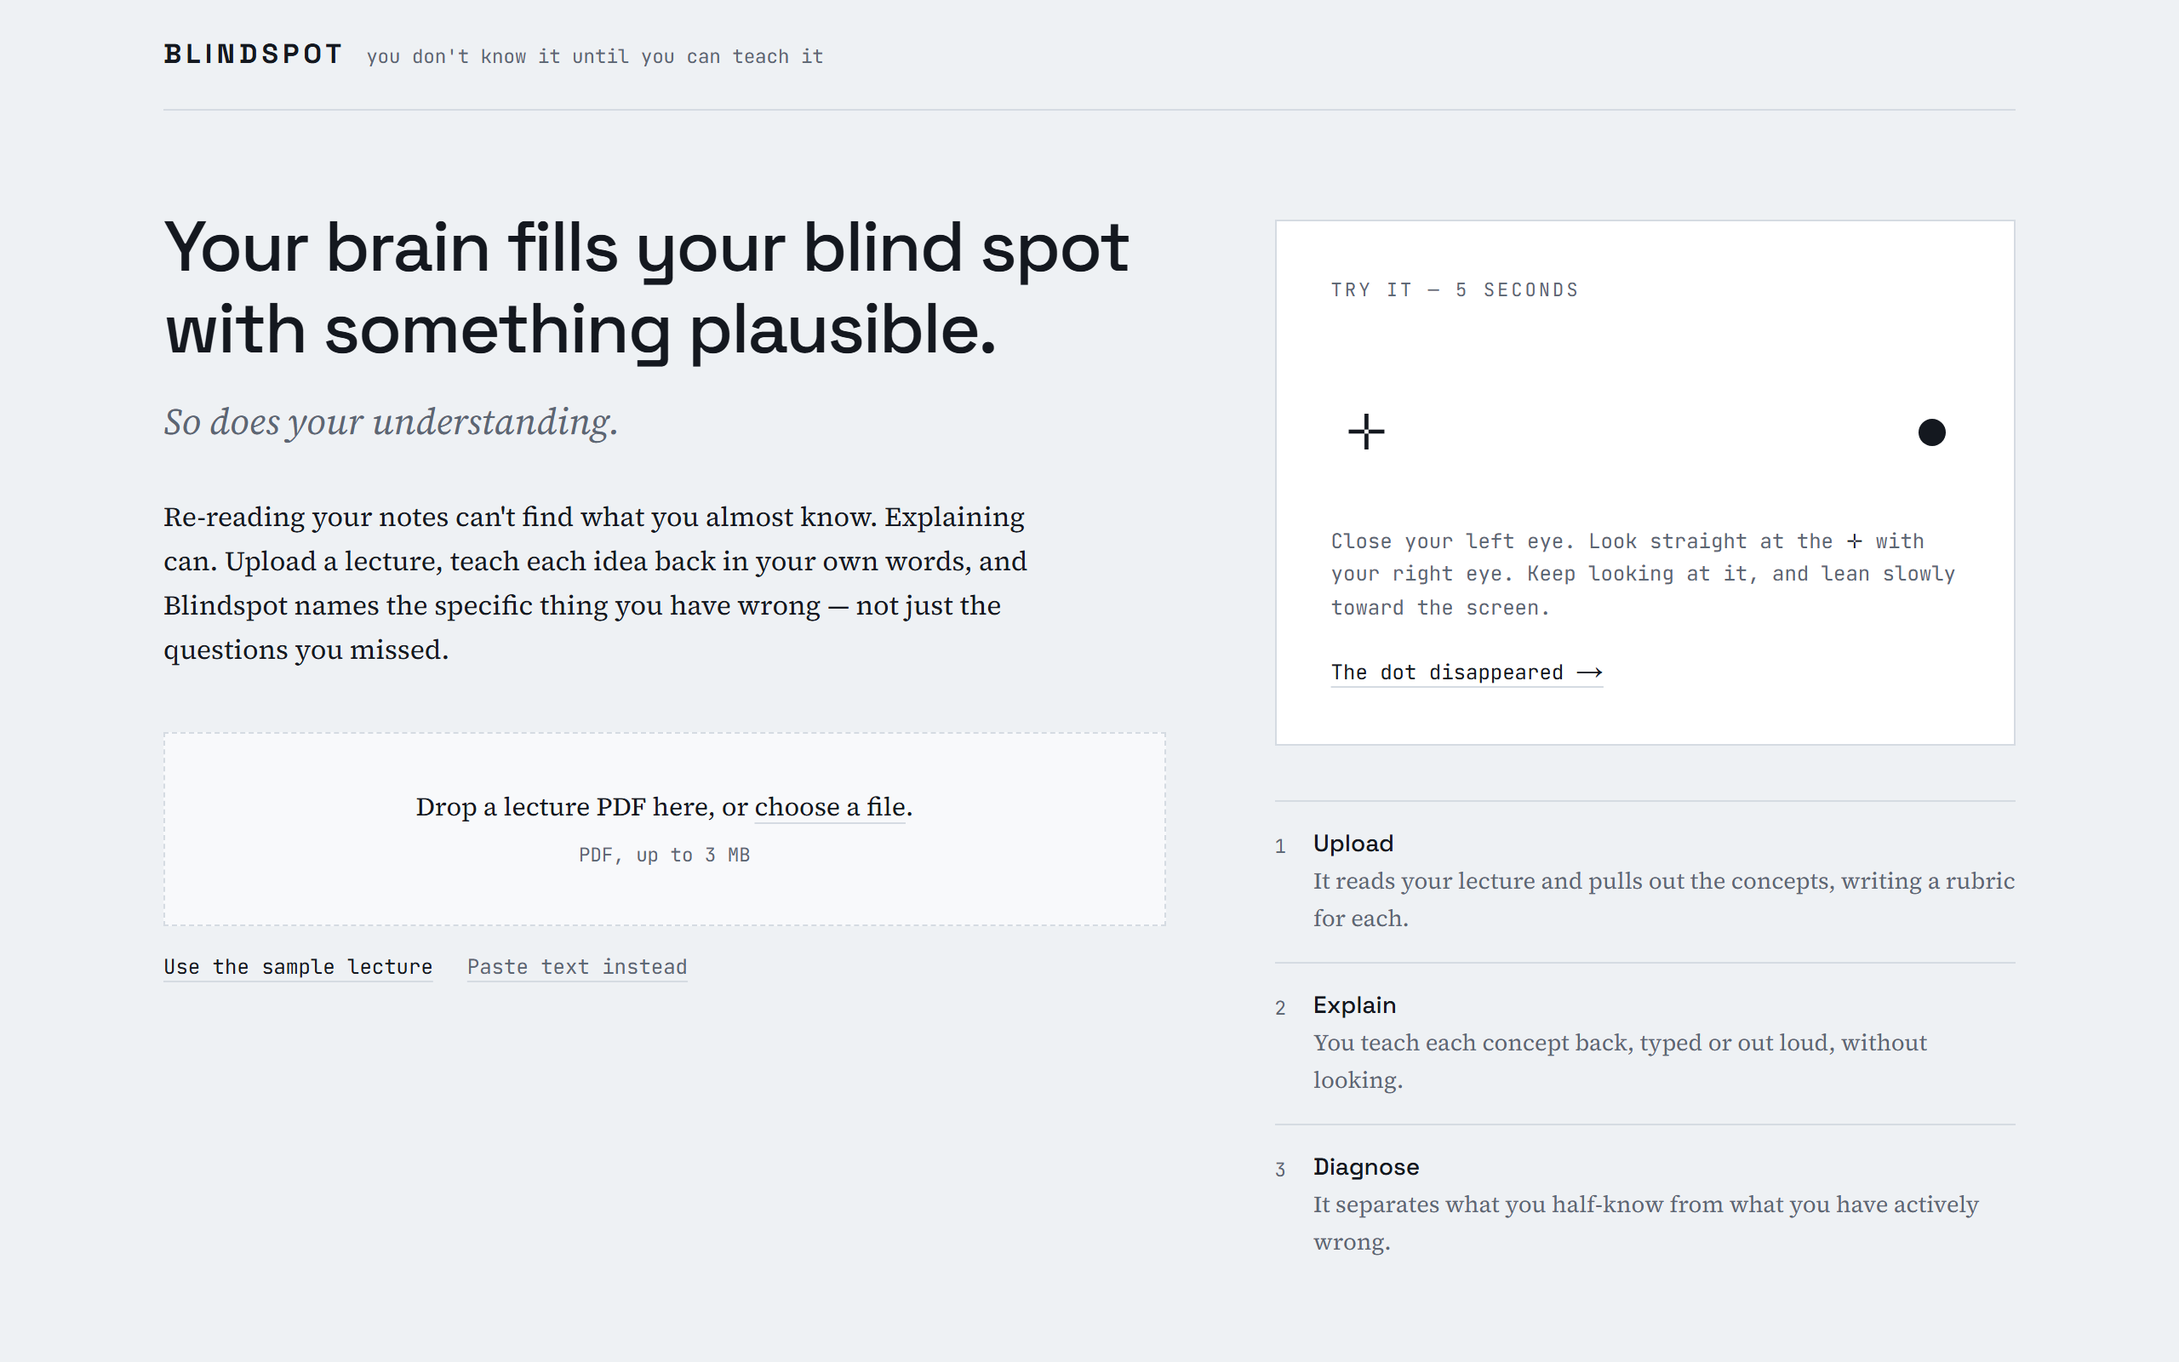
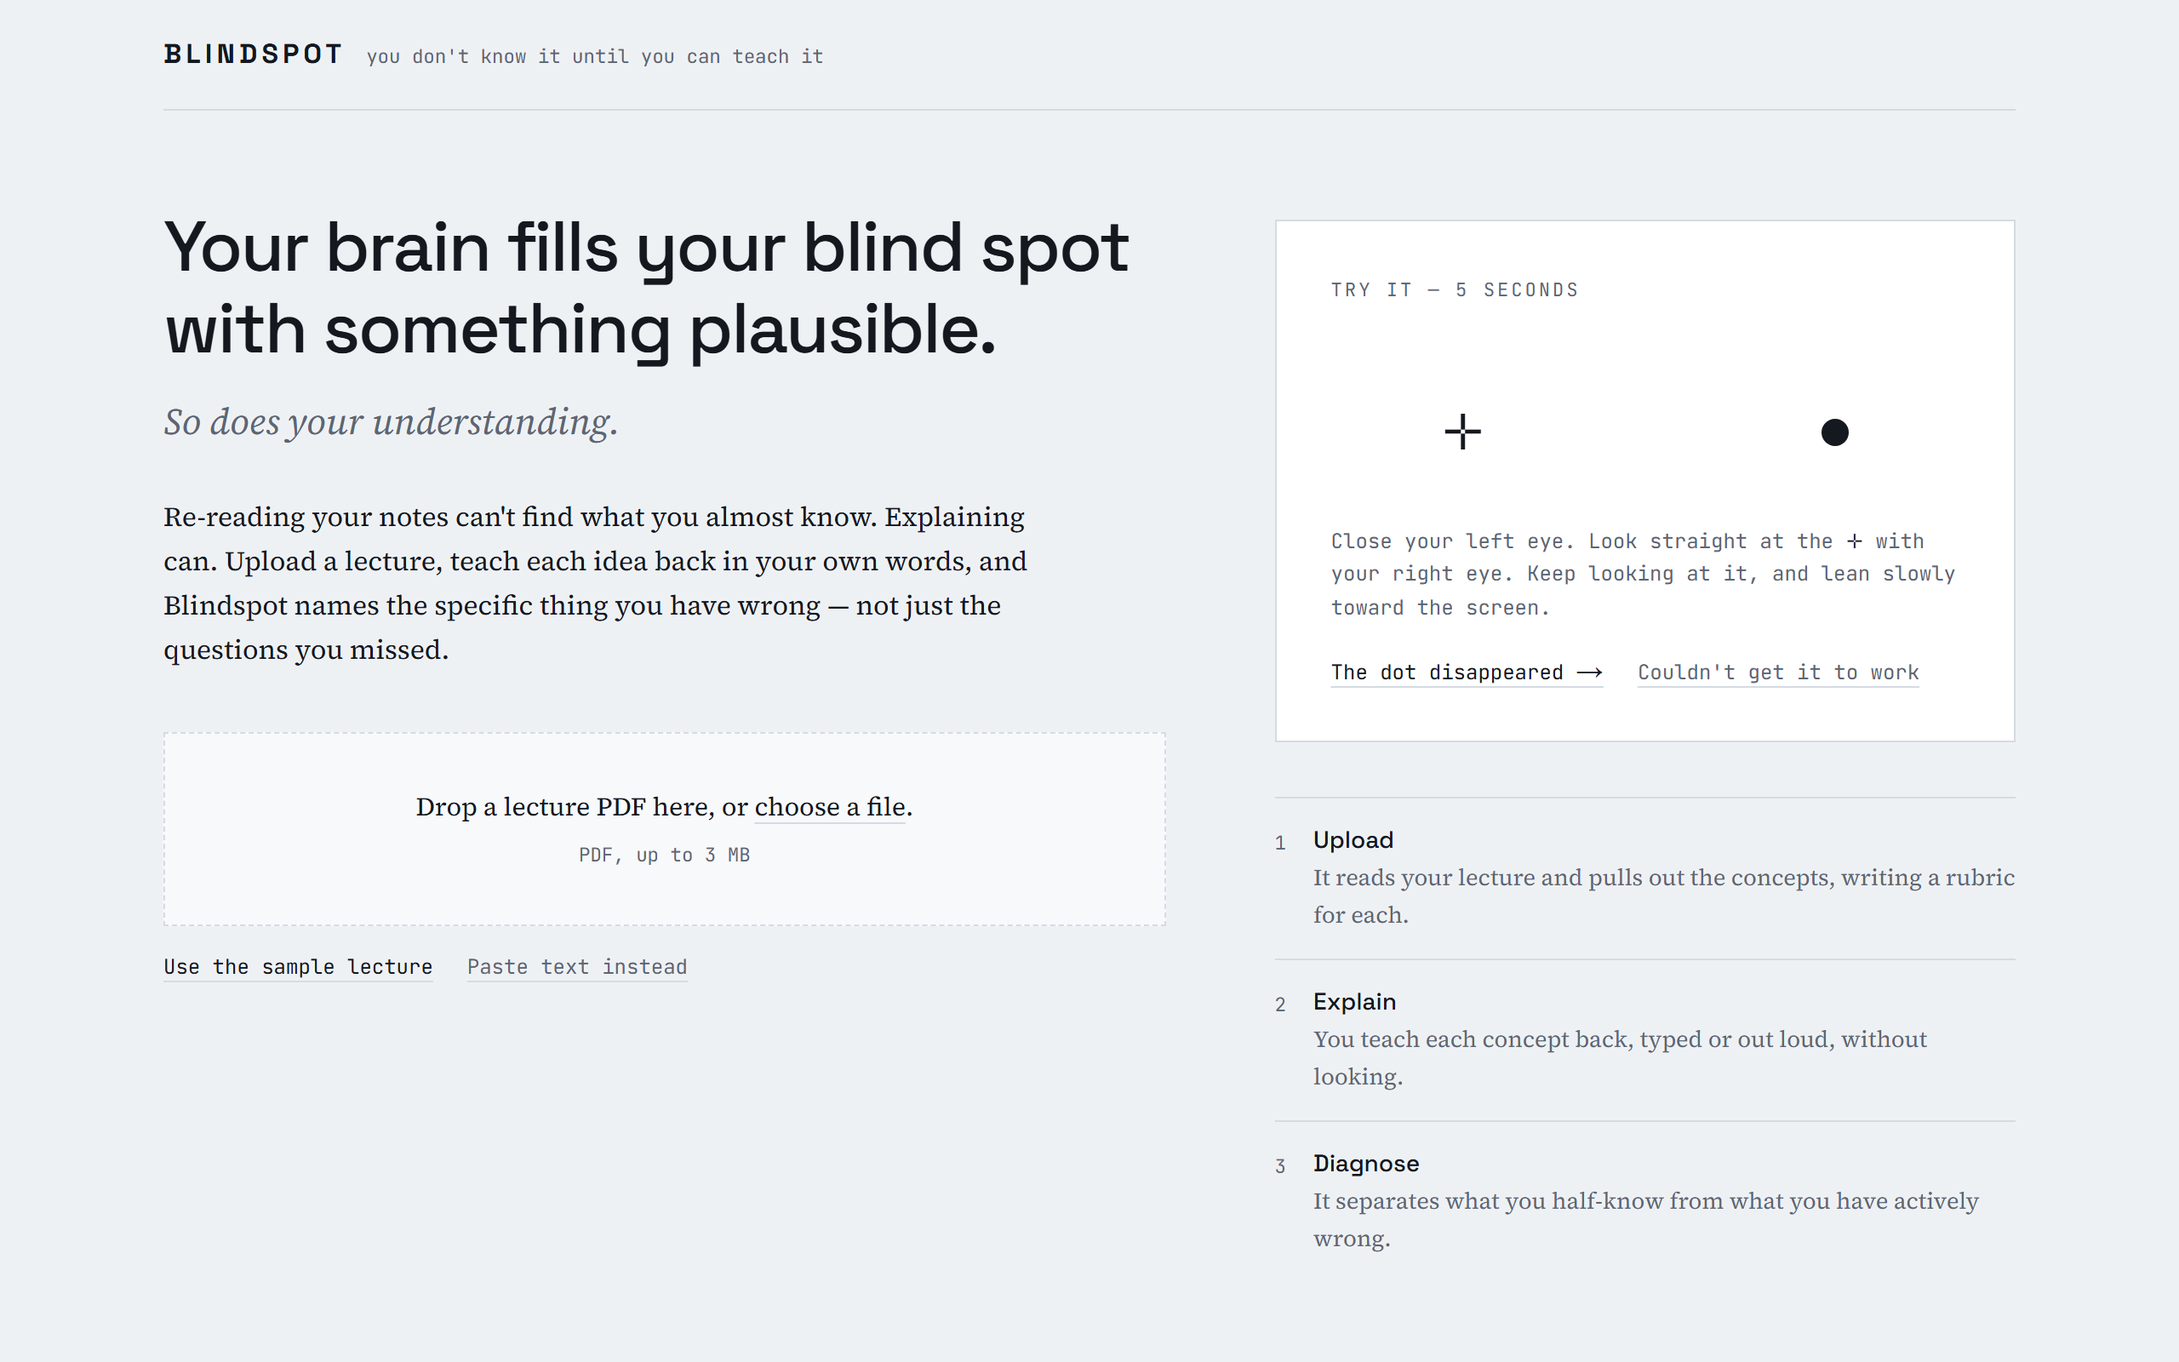
Bring the interface up to AA, and stop overstating what it knows
Eight fixes, all measured rather than eyeballed.

The footer credited Gemini for work Claude Sonnet 5 has led since a630bc5.

Contrast: --color-partial measured 3.45:1 on field, failing AA for the
small text it carries. Darkened to #7d5a10. Separately, the verdict card
tinted itself with an alpha wash that composited over whatever sat behind
it -- in practice --color-field, not white -- costing about 0.55 of ratio
and putting both the amber and the red under AA on their own cards. The
tints are now opaque tokens baked over --color-surface, which is also how
every other card in the app already behaved.

Waiting states: assessment borrowed the diagnosis card's own chrome
instead of a one-line message, so the wait reads as an instrument
mid-measurement that resolves in place. Extraction stopped claiming
"usually 15-30 seconds" indefinitely; past 38s it says what is actually
happening, which a stalled model made visible in testing.

The blind spot test had its separation set by whatever the column width
happened to be, though the scotoma sits at a fixed angle and the distance
that works follows from the gap. Pinned to 219px centre to centre. It also
gated the page's thesis behind the test succeeding, with no path for
anyone it fails; there are now two exits.

Also: a disabled submit button that never said why, and async regions that
appeared with no announcement.

Screenshots recaptured against a production build.

diff --git a/app/page.tsx b/app/page.tsx
@@ -3,16 +3,26 @@
 import { useEffect, useState } from "react";
 import { BlindSpotTest } from "@/components/BlindSpotTest";
 import { ConceptRail } from "@/components/ConceptRail";
-import { Diagnosis } from "@/components/Diagnosis";
+import { Diagnosis, DiagnosisPending } from "@/components/Diagnosis";
 import { TeachBack } from "@/components/TeachBack";
 import { Uploader, type Source } from "@/components/Uploader";
 import type { Assessment, ConceptMap } from "@/lib/schemas";
+import { VERDICT_DISPLAY } from "@/lib/verdict";
 
 const READING_STATES = [
   "Reading the material",
   "Pulling out the concepts",
   "Writing a rubric for each one",
 ];
+
+/*
+  The phase machine runs out after ~8s but a request can legitimately take far
+  longer: a stalled model burns ATTEMPT_TIMEOUT_MS before the chain moves on,
+  so the worst case is several times the advertised wait. Leaving "usually
+  15-30 seconds" on screen for two minutes reads as a hang. Past this mark the
+  estimate is replaced with what is actually happening.
+*/
+const SLOW_AFTER_MS = 38_000;
 
 async function postJson<T>(url: string, body: unknown): Promise<T> {
   const response = await fetch(url, {
@@ -35,6 +45,7 @@ export default function Home() {
   const [assessing, setAssessing] = useState(false);
   const [error, setError] = useState<string | null>(null);
   const [phase, setPhase] = useState(0);
+  const [slow, setSlow] = useState(false);
 
   useEffect(() => {
     if (!extracting) return;
@@ -42,11 +53,16 @@ export default function Home() {
       () => setPhase((value) => Math.min(value + 1, READING_STATES.length - 1)),
       2600,
     );
-    return () => clearInterval(timer);
+    const slowTimer = setTimeout(() => setSlow(true), SLOW_AFTER_MS);
+    return () => {
+      clearInterval(timer);
+      clearTimeout(slowTimer);
+    };
   }, [extracting]);
 
   async function handleSource(source: Source) {
     setPhase(0);
+    setSlow(false);
     setExtracting(true);
     setError(null);
     setSourceLabel(source.label);
@@ -136,14 +152,18 @@ export default function Home() {
 
               <div className="mt-9">
                 {extracting ? (
-                  <div className="border border-rule bg-surface p-8">
+                  <div role="status" className="border border-rule bg-surface p-8">
                     <p className="eyebrow">{sourceLabel}</p>
                     <p className="mt-3 font-display text-lg text-ink">
                       {READING_STATES[phase]}
-                      <span className="animate-rec">…</span>
+                      <span aria-hidden="true" className="animate-rec">
+                        …
+                      </span>
                     </p>
-                    <p className="mt-2 font-mono text-[0.7rem] text-muted">
-                      Usually 15–30 seconds.
+                    <p className="mt-2 font-mono text-[0.7rem] leading-relaxed text-muted">
+                      {slow
+                        ? "Taking longer than usual — the model is busy, so this is falling back to a spare. Still working."
+                        : "Usually 15–30 seconds."}
                     </p>
                   </div>
                 ) : (
@@ -224,14 +244,19 @@ export default function Home() {
                   )}
 
                   {assessing && (
-                    <p className="mt-8 font-mono text-xs text-muted">
-                      Comparing your explanation against the material
-                      <span className="animate-rec">…</span>
-                    </p>
+                    <div className="mt-8">
+                      <DiagnosisPending />
+                    </div>
                   )}
 
                   {!assessing && results[activeConcept.id] && (
                     <div className="mt-8">
+                      {/* The card itself is too long to read out wholesale, so the
+                          live region carries only the verdict and the score. */}
+                      <p aria-live="polite" className="sr-only">
+                        {VERDICT_DISPLAY[results[activeConcept.id].verdict].label} —{" "}
+                        {results[activeConcept.id].masteryScore} out of 100.
+                      </p>
                       <Diagnosis assessment={results[activeConcept.id]} />
                     </div>
                   )}
@@ -243,7 +268,8 @@ export default function Home() {
       </main>
 
       <footer className="border-t border-rule py-5 font-mono text-[0.7rem] text-muted">
-        Built for the Prometheus July AI Challenge · Concept extraction and assessment by Gemini
+        Built for the Prometheus July AI Challenge · Concept extraction and assessment by Claude
+        Sonnet 5, falling back to Gemini Flash
       </footer>
     </div>
   );

diff --git a/components/BlindSpotTest.tsx b/components/BlindSpotTest.tsx
@@ -12,15 +12,26 @@ import { useState } from "react";
  * it happen, because the sentence lands differently after the demonstration
  * than before it.
  */
+type Outcome = "confirmed" | "missed";
+
 export function BlindSpotTest() {
-  const [confirmed, setConfirmed] = useState(false);
+  const [outcome, setOutcome] = useState<Outcome | null>(null);
 
   return (
     <figure className="w-full border border-rule bg-surface p-6 sm:p-8">
       <figcaption className="eyebrow mb-5">Try it — 5 seconds</figcaption>
 
+      {/*
+        The separation is fixed, not `justify-between`. The scotoma sits about
+        15° temporal, so the distance at which the dot vanishes is a function of
+        this gap — d ≈ 3.7 × separation. Letting it float with the column width
+        would change where the user has to sit for the test to work at all.
+        15rem gives 219px centre to centre, putting that distance around 22cm,
+        which is what "lean slowly toward the screen" is asking for — and it
+        still fits inside a 375px viewport.
+      */}
       <div
-        className="flex items-center justify-between px-2 py-10 select-none"
+        className="mx-auto flex w-[15rem] items-center justify-between py-10 select-none"
         aria-hidden="true"
       >
         <span className="font-display text-3xl leading-none text-ink">✛</span>
@@ -33,21 +44,49 @@ export function BlindSpotTest() {
         it, and lean slowly toward the screen.
       </p>
 
-      {confirmed ? (
-        <p className="mt-5 border-t border-rule pt-5 font-body text-[0.95rem] leading-relaxed text-ink animate-rise">
-          You didn&apos;t see a hole where the dot was. Your brain filled the gap
-          with more background — confidently, and without telling you. Your
-          understanding of a subject does exactly the same thing, which is why
-          re-reading your notes never finds it.
-        </p>
+      {outcome === null ? (
+        /*
+          Two exits, because the thesis cannot be gated on the test working.
+          It fails for anyone with one eye covered by circumstance, on a phone
+          held too close, or who simply can't hold fixation — and those people
+          still need the sentence the page is built around.
+        */
+        <div className="mt-5 flex flex-wrap items-center gap-x-5 gap-y-2">
+          <button
+            type="button"
+            onClick={() => setOutcome("confirmed")}
+            className="font-mono text-xs text-ink underline decoration-rule underline-offset-4 transition-colors hover:decoration-ink"
+          >
+            The dot disappeared →
+          </button>
+          <button
+            type="button"
+            onClick={() => setOutcome("missed")}
+            className="font-mono text-xs text-muted underline decoration-rule underline-offset-4 transition-colors hover:text-ink"
+          >
+            Couldn&apos;t get it to work
+          </button>
+        </div>
       ) : (
-        <button
-          type="button"
-          onClick={() => setConfirmed(true)}
-          className="mt-5 font-mono text-xs text-ink underline decoration-rule underline-offset-4 transition-colors hover:decoration-ink"
-        >
-          The dot disappeared →
-        </button>
+        <p className="animate-rise mt-5 border-t border-rule pt-5 font-body text-[0.95rem] leading-relaxed text-ink">
+          {outcome === "confirmed" ? (
+            <>
+              You didn&apos;t see a hole where the dot was. Your brain filled the
+              gap with more background — confidently, and without telling you.
+              Your understanding of a subject does exactly the same thing, which
+              is why re-reading your notes never finds it.
+            </>
+          ) : (
+            <>
+              It takes some fiddling with distance. But the effect is real: where
+              the optic nerve leaves your retina there are no receptors, and your
+              brain covers the hole with more background rather than reporting a
+              gap — confidently, and without telling you. Your understanding of a
+              subject does exactly the same thing, which is why re-reading your
+              notes never finds it.
+            </>
+          )}
+        </p>
       )}
     </figure>
   );

diff --git a/components/Diagnosis.tsx b/components/Diagnosis.tsx
@@ -1,7 +1,55 @@
 "use client";
 
+import { useEffect, useState } from "react";
 import type { Assessment } from "@/lib/schemas";
 import { VERDICT_DISPLAY } from "@/lib/verdict";
+
+/*
+  Assessment is the moment the product's claim is on the line, so the wait gets
+  the diagnosis card's own chrome rather than a generic skeleton: same border,
+  same eyebrow, same meter — an instrument mid-measurement, which then resolves
+  in place into the real reading. The phases name what is actually being done,
+  and the third one is the differentiator worth saying out loud.
+*/
+const CHECKING_STATES = [
+  "Reading your explanation",
+  "Checking it against the rubric",
+  "Testing for false confidence",
+];
+
+export function DiagnosisPending() {
+  const [phase, setPhase] = useState(0);
+
+  useEffect(() => {
+    const timer = setInterval(
+      () => setPhase((value) => Math.min(value + 1, CHECKING_STATES.length - 1)),
+      2200,
+    );
+    return () => clearInterval(timer);
+  }, []);
+
+  return (
+    <section role="status" className="animate-rise border border-rule bg-surface/60 p-6 sm:p-7">
+      <header className="flex flex-wrap items-baseline justify-between gap-x-6 gap-y-2">
+        <p className="eyebrow">Measuring</p>
+        <p aria-hidden="true" className="font-mono text-[0.7rem] text-muted/60">
+          —<span>/100</span>
+        </p>
+      </header>
+
+      <div aria-hidden="true" className="mt-3 h-1 w-full overflow-hidden bg-ink/8">
+        <div className="animate-sweep h-full w-1/4 bg-muted" />
+      </div>
+
+      <p className="mt-5 font-display text-lg text-ink">
+        {CHECKING_STATES[phase]}
+        <span aria-hidden="true" className="animate-rec">
+          …
+        </span>
+      </p>
+    </section>
+  );
+}
 
 function Points({ title, items, tone }: { title: string; items: string[]; tone: string }) {
   if (items.length === 0) return null;

diff --git a/app/globals.css b/app/globals.css
@@ -16,9 +16,29 @@
   --color-muted: #5c6673;
   --color-rule: #d5dbe2;
 
+  /*
+    All three state colours clear 4.5:1 against every surface they land on.
+    They carry small text (verdict labels at 0.65rem, the eyebrow at
+    0.6875rem), so AA for normal text is the bar, not AA-large. Amber had to be
+    darkened from its natural value to get there — at #a8781c it measured
+    3.45:1 on field.
+  */
   --color-verified: #2c6e63;
-  --color-partial: #a8781c;
+  --color-partial: #7d5a10;
   --color-flag: #bc3b2f;
+
+  /*
+    The verdict card wash, opaque rather than an alpha tint. As `bg-flag/8` the
+    card composited over whatever sat behind it — in practice `--color-field`,
+    not white — which quietly cost about 0.55 of contrast ratio and put both the
+    amber and the red label under AA on their own cards. Baking the 8% over
+    `--color-surface` makes the result deterministic, and it puts the diagnosis
+    card on the same raised surface as every other card in the app.
+  */
+  --color-verified-wash: #eef3f3;
+  --color-partial-wash: #f5f2ec;
+  --color-flag-wash: #faefee;
+  --color-muted-wash: #f2f3f4;
 
   --font-display: var(--font-display), ui-sans-serif, system-ui, sans-serif;
   --font-body: var(--font-body), ui-serif, Georgia, serif;
@@ -73,6 +93,20 @@ body {
   }
 }
 
+/*
+  The indeterminate meter. It sweeps rather than pulses so it reads as the same
+  instrument as the resolved meter in the diagnosis card, taking a measurement
+  it hasn't finished yet.
+*/
+@keyframes sweep {
+  0% {
+    transform: translateX(-100%);
+  }
+  100% {
+    transform: translateX(400%);
+  }
+}
+
 @keyframes pulse-rec {
   0%,
   100% {
@@ -93,6 +127,10 @@ body {
 
 .animate-rec {
   animation: pulse-rec 1.2s ease-in-out infinite;
+}
+
+.animate-sweep {
+  animation: sweep 1.4s cubic-bezier(0.65, 0, 0.35, 1) infinite;
 }
 
 @media (prefers-reduced-motion: reduce) {

diff --git a/components/TeachBack.tsx b/components/TeachBack.tsx
@@ -158,13 +158,20 @@ export function TeachBack({
             onSubmit();
           }}
           disabled={busy || tooShort}
+          aria-describedby={tooShort ? "teachback-hint" : undefined}
           className="bg-ink px-5 py-2.5 font-mono text-xs tracking-wide text-field transition-opacity hover:opacity-90 disabled:opacity-40"
         >
           {busy ? "Checking…" : "Check my understanding"}
         </button>
 
-        <span className="font-mono text-[0.7rem] text-muted">
-          {words === 0 ? "" : `${words} ${words === 1 ? "word" : "words"}`}
+        {/* A disabled control has to say why. The Uploader already does this for
+            pasted text; without it the button just reads as broken. */}
+        <span id="teachback-hint" className="font-mono text-[0.7rem] text-muted">
+          {tooShort
+            ? words === 0
+              ? "Write a sentence or two to begin."
+              : "Keep going — a sentence or two at minimum."
+            : `${words} ${words === 1 ? "word" : "words"}`}
         </span>
       </div>
 

diff --git a/lib/verdict.ts b/lib/verdict.ts
@@ -13,7 +13,7 @@ export const VERDICT_DISPLAY: Record<
     label: "Solid",
     glyph: "●",
     color: "text-verified",
-    tint: "bg-verified/8",
+    tint: "bg-verified-wash",
     border: "border-verified/35",
     bar: "bg-verified",
   },
@@ -21,7 +21,7 @@ export const VERDICT_DISPLAY: Record<
     label: "Thin in places",
     glyph: "◐",
     color: "text-partial",
-    tint: "bg-partial/8",
+    tint: "bg-partial-wash",
     border: "border-partial/35",
     bar: "bg-partial",
   },
@@ -29,7 +29,7 @@ export const VERDICT_DISPLAY: Record<
     label: "Blind spot",
     glyph: "▲",
     color: "text-flag",
-    tint: "bg-flag/8",
+    tint: "bg-flag-wash",
     border: "border-flag/40",
     bar: "bg-flag",
   },
@@ -37,7 +37,7 @@ export const VERDICT_DISPLAY: Record<
     label: "Not enough to go on",
     glyph: "○",
     color: "text-muted",
-    tint: "bg-muted/8",
+    tint: "bg-muted-wash",
     border: "border-rule",
     bar: "bg-muted",
   },
